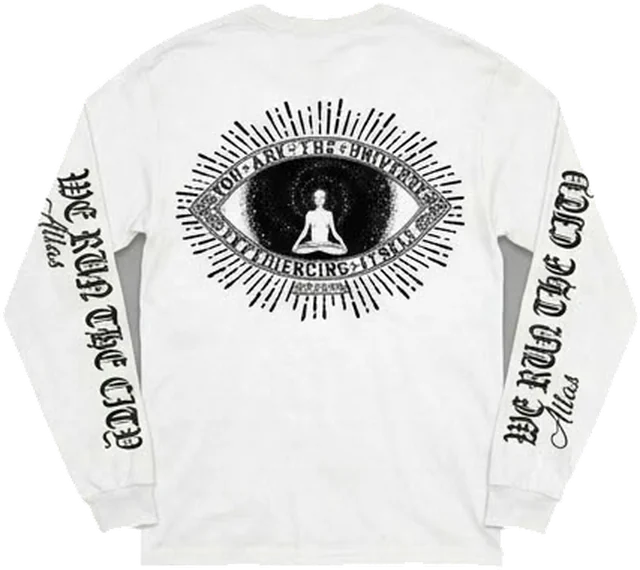
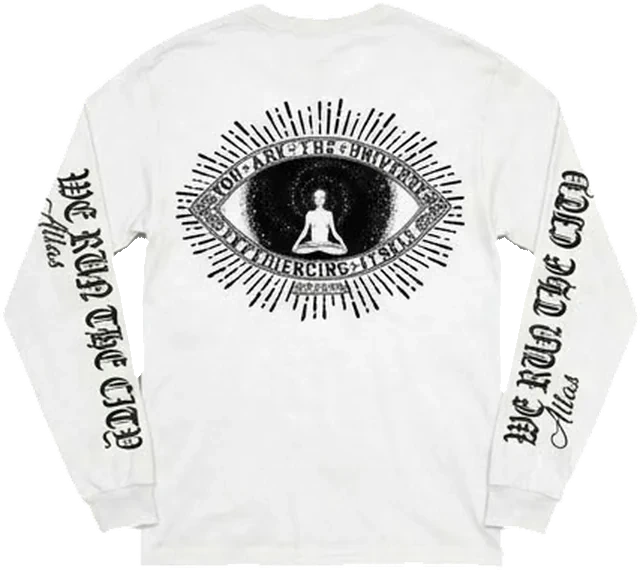
Arreglar la «tercera manga» de la camiseta larga blanca y la página 404
- camiseta-manga-larga-blanca-frontal/espalda: la máscara de transparencia
  dejaba opaca la cuña gris (fondo de la foto) entre cada manga y el cuerpo,
  y parecía una tercera manga. Ahora esas cuñas son transparentes.
- 404.html: rutas relativas para que cargue bien también en /Atlas/.

Claude-Session: https://claude.ai/code/session_01D5po24g8TGZB5PwZSEjxY1

Changed region(s): [[0.7812, 0.4175, 0.8438, 0.686], [0.1562, 0.4175, 0.25, 0.6561]]

diff --git a/404.html b/404.html
@@ -8,15 +8,15 @@
   <title>Página no encontrada — Atlas</title>
   <!-- Las rutas empiezan por «/» porque este archivo lo muestra el servidor en
        cualquier dirección que no exista (Netlify, GitHub Pages, etc.). -->
-  <link rel="icon" type="image/png" href="/assets/img/favicon.png">
+  <link rel="icon" type="image/png" href="assets/img/favicon.png">
   <link href="https://fonts.googleapis.com/css2?family=Jost:wght@400;500&family=Pirata+One&display=swap" rel="stylesheet" referrerpolicy="no-referrer">
-  <link rel="stylesheet" href="/css/styles.css">
+  <link rel="stylesheet" href="css/styles.css">
 </head>
 <body>
   <main class="nf">
     <h1>404</h1>
     <p>No encontramos esta página. Puede que el enlace esté mal escrito o que ya no exista.</p>
-    <a class="btn" href="/index.html">Back to home</a>
+    <a class="btn" href="index.html">Back to home</a>
   </main>
 </body>
 </html>
